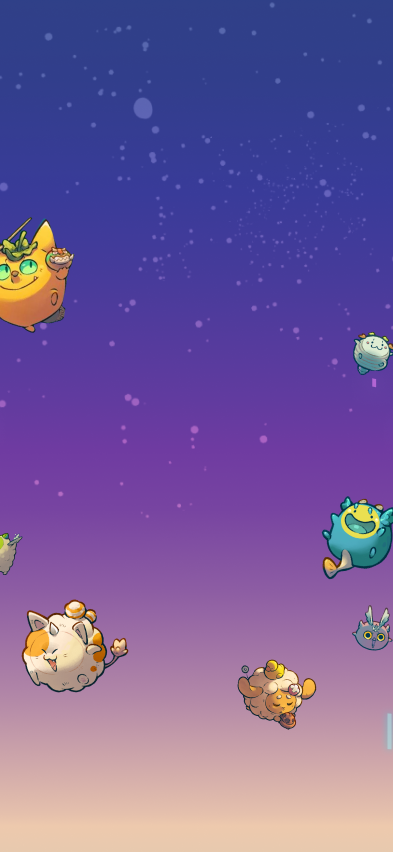
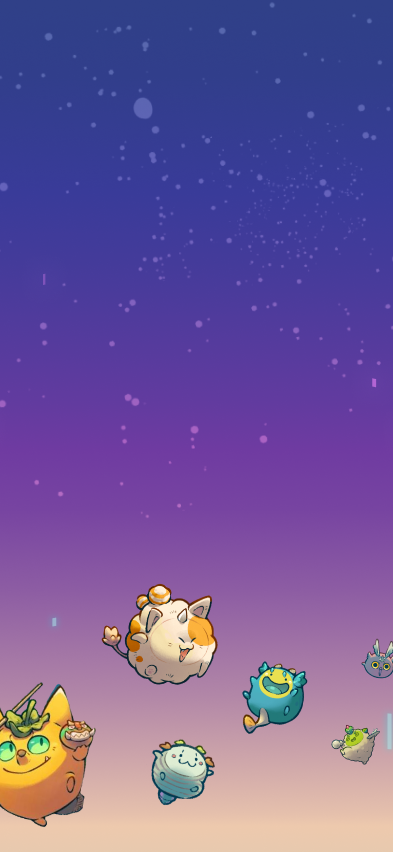
feat,fix: add animation on mobile and desktop, fix positioning, add comments

diff --git a/src/app/home/page.tsx b/src/app/home/page.tsx
@@ -7,16 +7,18 @@ import Link from "next/link"
 import { URL_EXTENSION_STORE } from "../urls"
 import gsap from "gsap"
 import { useGSAP } from "@gsap/react"
+import { URL_DISCORD, URL_TWITTER } from "../urls"
+import { FaXTwitter, FaDiscord, FaArrowLeftLong } from "react-icons/fa6"
 
 gsap.registerPlugin(useGSAP)
 
 export default function AxieHome() {
   const axieRefs = useRef<(HTMLImageElement | null)[]>([])
-
   useGSAP(() => {
     axieRefs.current.forEach((axie) => {
       if (!axie) return
       gsap.from(axie, {
+        //initial animation
         duration: getRandomNumber(1, 5),
         y: -1000,
         ease: getRandomChoice([
@@ -26,6 +28,16 @@ export default function AxieHome() {
           "power1",
           "power4",
         ]),
+        onComplete: () => {
+          // Idle animation for subtle up and down movement
+          gsap.to(axie, {
+            y: `+=${getRandomNumber(10, 50)}`,
+            duration: getRandomNumber(1, 3),
+            yoyo: true,
+            repeat: -1,
+            ease: "sine.inOut",
+          })
+        },
       })
     })
   }, [])
@@ -40,9 +52,9 @@ export default function AxieHome() {
   }
 
   return (
-    <div className="absolute inset-0 flex items-center justify-center overflow-y-hidden bg-mobile from-[#4bd4fe] to-[#80d458] bg-cover bg-center bg-no-repeat md:bg-main_plain">
+    <div className="absolute inset-0 flex items-center justify-center overflow-y-hidden bg-mobile_plain from-[#4bd4fe] to-[#80d458] bg-cover bg-center bg-no-repeat md:bg-main_plain">
       {/* main content */}
-      <div className="absolute flex w-full flex-col items-center justify-center self-center pb-[20dvh]">
+      <div className="absolute flex w-full flex-col items-center justify-center self-center pb-[20dvh] md:pb-[5dvh]">
         {/* axie logo */}
         <Image
           alt=""
@@ -96,16 +108,29 @@ export default function AxieHome() {
             </p>
           </Link> */}
         </div>
-        <div className="flex w-full items-end justify-center gap-4 pt-10">
-          <p className="font-medium italic text-white">Powered by</p>
-          <Image
-            width={80}
-            height={80}
-            alt={""}
-            src={"/Axie_Pal_Logo.svg"}
-            color="white"
-            draggable={false}
-          />
+        <div className="flex w-full flex-col items-center justify-center">
+          <div className="flex items-end justify-center gap-4 pt-10">
+            {/* pal branding */}
+            <p className="font-medium italic text-white">Powered by</p>
+            <Image
+              width={80}
+              height={80}
+              alt={""}
+              src={"/Axie_Pal_Logo.svg"}
+              color="white"
+              draggable={false}
+            />
+          </div>
+
+          {/* socials */}
+          <div className="flex flex-row gap-4 pt-6 md:flex">
+            <Link target="_blank" href={URL_DISCORD}>
+              <FaDiscord size={24} />
+            </Link>
+            <Link target="_blank" href={URL_TWITTER}>
+              <FaXTwitter size={20} />
+            </Link>
+          </div>
         </div>
       </div>
       {/* <BottomBar /> */}
@@ -116,19 +141,19 @@ export default function AxieHome() {
 function getAxieStyles(index: number) {
   switch (index) {
     case 0:
-      return "z-10 hidden md:flex md:-left-[8rem] md:top-[12rem] md:w-56"
+      return "z-10 z-0 -left-[2rem] top-[16rem] w-[9rem] md:flex md:-left-[8rem] md:top-[12rem] md:w-56"
     case 1:
-      return "z-10 hidden md:flex md:left-[27rem] md:top-[9rem] md:w-36"
+      return "z-10 z-0 left-[13rem] top-[22rem] w-[6rem] md:flex md:left-[27rem] md:top-[9rem] md:w-36"
     case 2:
-      return "z-10 hidden md:flex md:left-[35rem] md:top-[20rem] md:w-24"
+      return "z-10 z-0 left-[20rem] top-[16rem] w-[3rem] md:flex md:left-[35rem] md:top-[20rem] md:w-24"
     case 3:
-      return "z-10 hidden md:flex md:-top-[2rem] md:left-[32rem] md:w-28"
+      return "z-10 z-0 left-[7rem] top-[28rem] w-[5rem] md:flex md:-top-[2rem] md:left-[32rem] md:w-28"
     case 4:
-      return "z-10 hidden md:flex md:left-[16rem] md:top-[23rem] md:w-32"
+      return "z-10 z-0 hidden md:flex md:left-[16rem] md:top-[23rem] md:w-32"
     case 5:
-      return "z-10 hidden md:flex md:-left-[13rem] md:top-[5rem] md:w-32"
+      return "z-10 z-0 left-[18rem] top-[28rem] w-[4rem] md:flex md:-left-[13rem] md:top-[5rem] md:w-32"
     case 6:
-      return "z-10 hidden md:flex md:-left-[8rem] md:-top-[10rem] md:w-48"
+      return "z-10 z-0 -left-[5rem] top-[24rem] w-[9rem] md:flex md:-left-[8rem] md:-top-[11rem] md:w-48"
     default:
       return ""
   }

diff --git a/src/app/form/page.tsx b/src/app/form/page.tsx
@@ -16,6 +16,7 @@ interface inputChangeType {
   target: { name: string; value: string }
 }
 
+// definition of validation requirement
 const formSchema = z.object({
   name: z
     .string()
@@ -48,10 +49,12 @@ export default function AxieForm() {
     server: "",
   })
 
+  // update state with user input
   const handleInputChange = (event: inputChangeType) => {
     setForm({ ...form, [event.target.name]: event.target.value })
   }
 
+  // send data to POST request
   const handleSubmit = async () => {
     setErrors({
       name: "",
@@ -141,6 +144,7 @@ export default function AxieForm() {
             </div>
           </div>
 
+          {/* form submission */}
           <form className="flex h-fit w-full flex-col gap-6 rounded-xl bg-white p-6 text-black md:mt-10 md:w-1/2">
             <div className="flex flex-col gap-4 md:flex-row">
               <div className="flex flex-col md:w-1/2">
@@ -245,6 +249,7 @@ export default function AxieForm() {
               </div>
             </div>
 
+            {/* submit button */}
             <div className="flex w-full flex-col justify-center pt-4 md:w-fit md:justify-start">
               <Button theme="axie_purple" onClick={() => handleSubmit()}>
                 <p className="px-6 py-1 font-bold">Submit</p>
@@ -266,8 +271,6 @@ export default function AxieForm() {
             <FaXTwitter size={20} />
           </Link>
         </div>
-        {/* spacer
-        <div className="block h-[18dvh] w-full"></div> */}
       </div>
       {/* <BottomBar /> */}
     </div>
